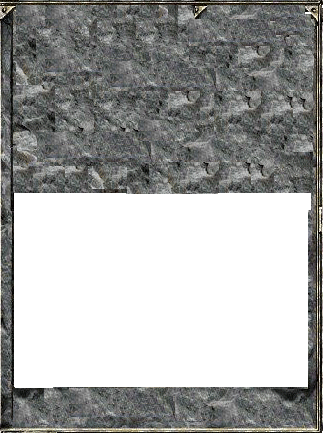
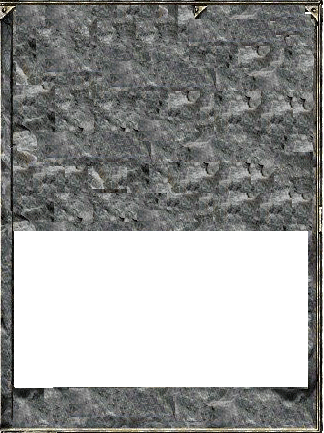
.

Changed region(s): [[0.0309, 0.4203, 0.9877, 0.5404]]

diff --git a/HTML_CSS/task-7/index.html b/HTML_CSS/task-7/index.html
@@ -13,27 +13,44 @@
             </div>
             <div class="header__right-block">
                 <div class="header__right-block__top">
-                    
+                    <div class="header__right-block__top__first">
+                        <img class="header__right-block__top__digits" src="img/digits.png">
+                        <img class="header__right-block__top__sword" src="img/sword.png">
+                        <img class="header__right-block__top__gloves" src="img/gloves.png">
+                    </div>
+                    <div class="header__right-block__top__second">
+                        
+                    </div>
+                    <div class="header__right-block__top__third">
+                        
+                    </div>
                 </div>
                 <div class="header__right-block__center">
                     
                 </div>
                 <div class="header__right-block__bottom">
-                    
+                    <img class="header__right-block__bottom__btn" src="img/gear-btn.png">
+                    <img class="header__right-block__bottom__gear" src="img/bottom-gear.png">
                 </div>
             </div>
         </header>
         <footer>
-            <img src="img/circle-red.png">
+            <img class="img_red" src="img/circle-red.png">
             <div class="bg-block">
                 <div class="bg-block__red">
-                    
+                    <img class="bg-block__red__btn" src="img/btn-add.png">
+                    <div class="bg-block__red__helth__block">
+                        <img class="bg-block__red__helth__block__top" src="img/bottom-helth-line.png">
+                        <img class="bg-block__red__helth__block__bottom" src="img/bottom-yellow-line.png">
+                    </div>
+
                 </div>
                 <div class="bg-block__blue">
-                    
+                    <img class="bg-block__blue__botle" src="img/bottom-botle.png">
+                    <img class="bg-block__blue__btn" src="img/btn-add.png">
                 </div>
             </div>
-            <img src="img/circle-blue.png">
+            <img class="img_blue" src="img/circle-blue.png">
         </footer>
     </div>
 </body>

diff --git a/HTML_CSS/task-7/css/style.css b/HTML_CSS/task-7/css/style.css
@@ -21,10 +21,52 @@ header {
   background: url('../img/bg_item.png') no-repeat; 
 }
 
+.header__right-block__center {
+  position: absolute;
+  top: 208px;
+  left: 13px;
+  background: url(../img/cubic-block.png) no-repeat;
+  background-size: 299px;
+  width: 299px;
+  height: 181px;
+}
+
 .header__right-block {
+  position: relative;
   width: 340px;
   height: 435px;
   background: url('../img/bg_item-right.png') no-repeat; 
+}
+
+.header__right-block__top {
+  margin-top: 6px;
+  margin-left: 13px;
+}
+
+.header__right-block__top img {
+  display: block;
+}
+
+.header__right-block__top__digits {
+  height: 22px;
+}
+
+.header__right-block__top__gloves {
+  height: 62px;
+}
+
+
+.header__right-block__bottom {
+  position: absolute;
+  bottom: 9px;
+  left: 14px;
+}
+
+.header__right-block__bottom__gear {
+  height: 24px;
+  position: absolute;
+  left: 61px;
+  top: 3px;
 }
 
 footer {
@@ -38,13 +80,49 @@ footer {
   display: flex;
   background: url(../img/bottom-line.png) bottom no-repeat;
   margin-top: 45px;
-  width: 100%;
+  width: 555px;
   background-size: contain;
 }
 
 .bg-block__red,
 .bg-block__blue {
   width: 255px;
+  position: relative;
+}
+
+.bg-block__blue .bg-block__blue__botle {
+  height: 35px;
+  position: absolute;
+  left: 41px;
+  top: 13px; 
+}
+
+.bg-block__blue .bg-block__blue__btn {
+  height: 35px;
+  position: absolute;
+  left: 177px;
+  top: 13px; 
+}
+
+.bg-block__red .bg-block__red__btn {
+  height: 35px;
+  position: absolute;
+  left: 84px;
+  top: 13px; 
+}
+
+.bg-block__red__helth__block__top {
+  left: 126px;
+  top: 9px;
+  position: absolute;
+  height: 11px; 
+}
+
+.bg-block__red__helth__block__bottom {
+  left: 129px;
+  top: 22px;
+  position: absolute;
+  height: 25px;
 }
 
 .bg-block__red::after {
@@ -59,7 +137,21 @@ footer {
   background-repeat: no-repeat;
 }
 
-footer img {
+.bg-block__blue::after {
+  position: relative;
+  top: 5px;
+  left: 248px;
+  display: block;
+  content: "";
+  background-image: url(../img/bottom-right.jpg);
+  background-size: 49px 45px;
+  width: 50px;
+  height: 50px;
+  background-repeat: no-repeat;
+}
+
+footer .img_red,
+footer .img_blue {
   height: 95px;
   width: 98px;
   display: block;
